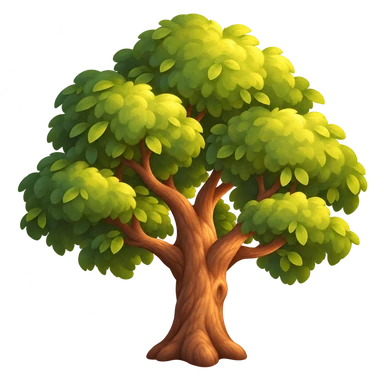
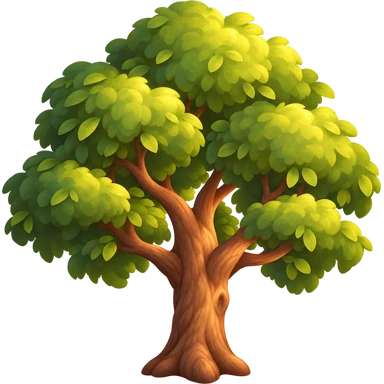
fix: stand plant art on the ground with no box around it
- the boxed tiles looked odd, so plant pictures now sit bare on Your hunt, hunt complete, and the
  grass tutorial; found stops keep their check badge and star
- the sources center each plant with a margin, so the packer trims it and stands it on the bottom
  edge, on the same line as Briar's feet

Generated-by: Claude Opus 5.5 <noreply@anthropic.com>

diff --git a/app/src/main/kotlin/dev/anchildress1/wildfind/ui/Parts.kt b/app/src/main/kotlin/dev/anchildress1/wildfind/ui/Parts.kt
@@ -163,22 +163,14 @@ fun PaperCard(modifier: Modifier = Modifier, content: @Composable ColumnScope.()
 }
 
 /**
- * A plant type's tile; found tiles get a Forest border. No type means no tile (spec: name only).
+ * A plant type's picture standing on its square's bottom edge, with no box around it; no type leaves the square
+ * empty (spec: name only).
  *
- * @param size the tile's side
+ * @param size the square's side
  */
 @Composable
-fun TypeTile(type: PlantType?, found: Boolean, size: Dp, modifier: Modifier = Modifier) {
-    val shape = RoundedCornerShape(size * TILE_RADIUS)
-    Box(
-        modifier.size(size).background(Palette.Paper, shape)
-            .border(if (found) 2.5.dp else 1.5.dp, if (found) Palette.Forest else Palette.Line, shape),
-        contentAlignment = Alignment.Center,
-    ) {
-        type?.let {
-            PlantArt(it, Modifier.size(size * ICON_SHARE))
-        }
-    }
+fun TypeTile(type: PlantType?, size: Dp, modifier: Modifier = Modifier) {
+    Box(modifier.size(size)) { type?.let { PlantArt(it, Modifier.size(size)) } }
 }
 
 /** A find star. */
@@ -205,5 +197,3 @@ fun typeLabel(type: PlantType?): String? = type?.let {
 }
 
 private const val SPROUT = "sprout"
-private const val TILE_RADIUS = 0.27f
-private const val ICON_SHARE = 0.6f

diff --git a/app/src/main/kotlin/dev/anchildress1/wildfind/ui/HomeScreens.kt b/app/src/main/kotlin/dev/anchildress1/wildfind/ui/HomeScreens.kt
@@ -81,10 +81,8 @@ fun TutorialScreen(onTry: () -> Unit, onGrownUps: () -> Unit) {
             verticalAlignment = Alignment.Bottom,
         ) {
             Briar(BriarState.WELCOME, briarText(BriarState.WELCOME), Modifier.weight(1f, fill = false))
-            Box(
-                Modifier.rise(index = 1).size(150.dp, 170.dp).background(Palette.Husk, RoundedCornerShape(28.dp)),
-                contentAlignment = Alignment.Center,
-            ) { PlantArt(PlantType.GRASS, Modifier.size(132.dp)) }
+            // No box: the grass stands on the same line as Briar's feet.
+            PlantArt(PlantType.GRASS, Modifier.rise(index = 1).size(140.dp))
         }
         Text(
             stringResource(R.string.tutorial_point),

diff --git a/app/src/main/kotlin/dev/anchildress1/wildfind/ui/HuntScreen.kt b/app/src/main/kotlin/dev/anchildress1/wildfind/ui/HuntScreen.kt
@@ -198,7 +198,7 @@ private fun StopCard(number: Int, stop: Stop, onClick: () -> Unit, onCenter: (Of
                 onCenter(tile.positionInRoot() + Offset(tile.size.width / 2f, tile.size.height / 2f))
             },
         ) {
-            TypeTile(stop.type, stop.found, TILE)
+            TypeTile(stop.type, TILE)
             Badge(number, stop.found, Modifier.align(Alignment.TopStart).offset(-BADGE_NUDGE, -BADGE_NUDGE))
             if (stop.found) Star(34.dp, Modifier.align(Alignment.BottomEnd).offset(12.dp, 10.dp).pop())
         }

diff --git a/app/src/main/kotlin/dev/anchildress1/wildfind/ui/CompleteScreen.kt b/app/src/main/kotlin/dev/anchildress1/wildfind/ui/CompleteScreen.kt
@@ -83,7 +83,7 @@ private fun Finished(stop: Stop, modifier: Modifier) {
         horizontalAlignment = Alignment.CenterHorizontally,
         verticalArrangement = Arrangement.spacedBy(6.dp),
     ) {
-        TypeTile(stop.type, stop.found, 88.dp)
+        TypeTile(stop.type, 88.dp)
         Text(stop.name, style = MaterialTheme.typography.titleMedium, textAlign = TextAlign.Center)
         Text(status, style = MaterialTheme.typography.bodyMedium, color = Palette.Ink2)
     }

diff --git a/pipeline/src/wild_find_pipeline/sprites.py b/pipeline/src/wild_find_pipeline/sprites.py
@@ -17,6 +17,8 @@ PLANTS_OUT = REPO / "app/src/main/assets/plants"
 PLANT_TYPES = ("tree", "shrub", "vine", "herb", "grass", "fern", "moss", "conifer")
 # Tiles top out near 112 dp, about 340 px on a 3x screen.
 PLANT_PX = 384
+# Faint glow pixels below this alpha don't count as the plant's edge.
+ALPHA_FLOOR = 16
 # name: (source file, columns, rows, fps)
 SHEETS = {
     "idle": ("briar-rest-blink-16.png", 4, 4, 8),
@@ -108,10 +110,23 @@ def repack(source: Image.Image, columns: int, rows: int) -> tuple[Image.Image, i
 
 
 def plant_art(source: Image.Image) -> Image.Image:
-    """One plant-type picture, square at PLANT_PX, its transparent margin kept so every type sits alike."""
-    if source.width != source.height:
-        raise ValueError(f"plant art must be square, got {source.size}")
-    return source.convert("RGBA").resize((PLANT_PX, PLANT_PX), Image.Resampling.LANCZOS)
+    """One plant-type picture on a PLANT_PX square, trimmed to the plant and standing on the bottom edge.
+
+    The sources center each plant with a margin all round; trimming and grounding them lets every plant stand on
+    the same line as Briar's feet.
+    """
+    rgba = source.convert("RGBA")
+    box = rgba.getchannel("A").point(lambda a: 255 if a > ALPHA_FLOOR else 0).getbbox()
+    if box is None:
+        raise ValueError("plant art is empty")
+    plant = rgba.crop(box)
+    scale = PLANT_PX / max(plant.width, plant.height)
+    plant = plant.resize(
+        (max(1, round(plant.width * scale)), max(1, round(plant.height * scale))), Image.Resampling.LANCZOS
+    )
+    out = Image.new("RGBA", (PLANT_PX, PLANT_PX))
+    out.alpha_composite(plant, ((PLANT_PX - plant.width) // 2, PLANT_PX - plant.height))
+    return out
 
 
 def main() -> int:

diff --git a/pipeline/tests/test_sprites.py b/pipeline/tests/test_sprites.py
@@ -73,13 +73,19 @@ def test_a_prop_drawn_apart_joins_its_frame():
     assert {f.size for f in frames[1:]} == {(20, 30)}
 
 
-def test_plant_art_shrinks_square_art_and_keeps_alpha():
-    art = plant_art(Image.new("RGBA", (1254, 1254), (0, 120, 0, 0)))
+def test_plant_art_trims_the_margin_and_stands_the_plant_on_the_bottom_edge():
+    source = Image.new("RGBA", (1254, 1254))
+    source.paste((0, 120, 0, 255), (527, 427, 727, 827))  # a 200 x 400 plant, centered with a margin
+
+    art = plant_art(source)
+    box = art.getchannel("A").getbbox()
 
     assert art.size == (PLANT_PX, PLANT_PX)
-    assert art.mode == "RGBA"
+    assert box[3] == PLANT_PX  # on the bottom edge
+    assert box[1] == 0  # the taller side fills the square
+    assert abs((box[0] + box[2]) / 2 - PLANT_PX / 2) <= 1  # centered across
 
 
-def test_plant_art_rejects_non_square_art():
+def test_plant_art_rejects_an_empty_picture():
     with pytest.raises(ValueError):
-        plant_art(Image.new("RGBA", (100, 80)))
+        plant_art(Image.new("RGBA", (100, 100)))
